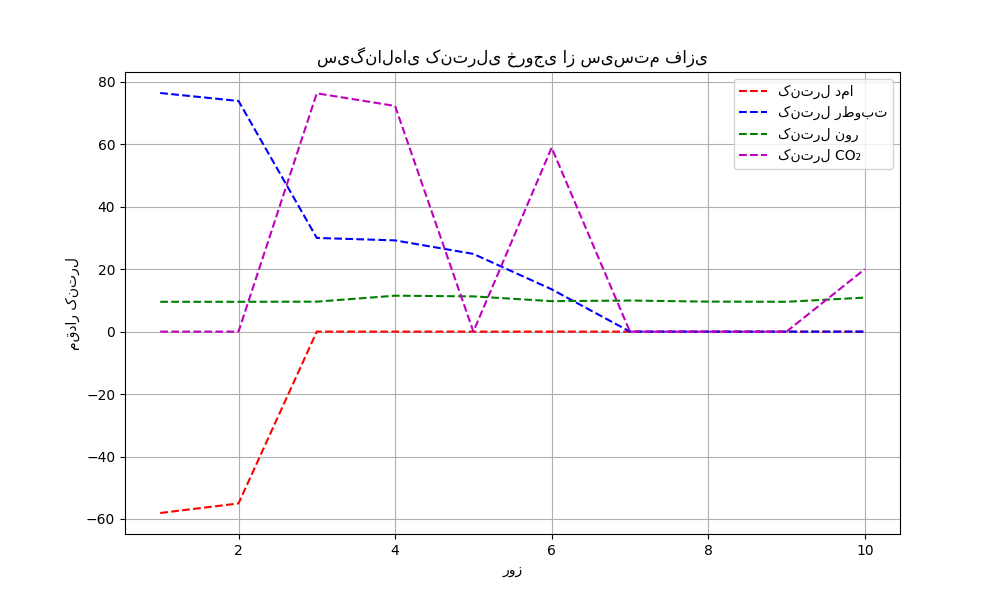
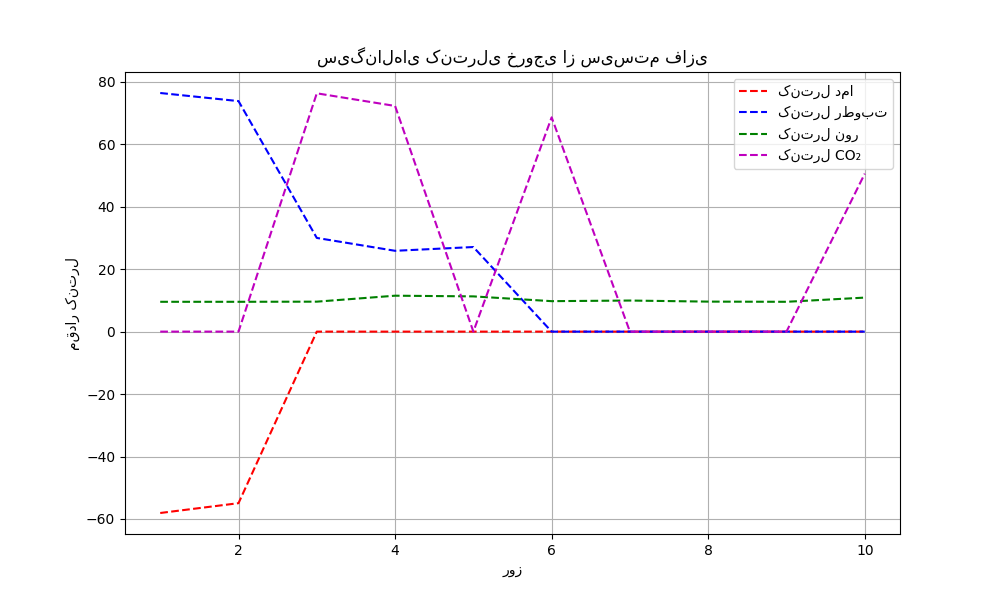
delete day_night policy

diff --git a/step1/greenhouse_simulator.py b/step1/greenhouse_simulator.py
@@ -1,7 +1,6 @@
 import numpy as np
 import pandas as pd
 from fuzzy_controller import temp_hum_light_co2_controller
-from day_night_policy import apply_day_night_policy
 
 class GreenhouseSimulator:
     T_RANGE = (10, 35)
@@ -79,14 +78,6 @@ class GreenhouseSimulator:
             }
 
             controls = temp_hum_light_co2_controller(inputs)
-
-            light_policy, co2_policy = apply_day_night_policy(
-                row["W"].lower(),
-                controls["LightControl"],
-                controls["CO2Control"]
-            )
-            controls["LightControl"] = light_policy
-            controls["CO2Control"] = co2_policy
 
             results.append({# ذخیره اطلاعات روز جاری
                 "day": row["day"],
